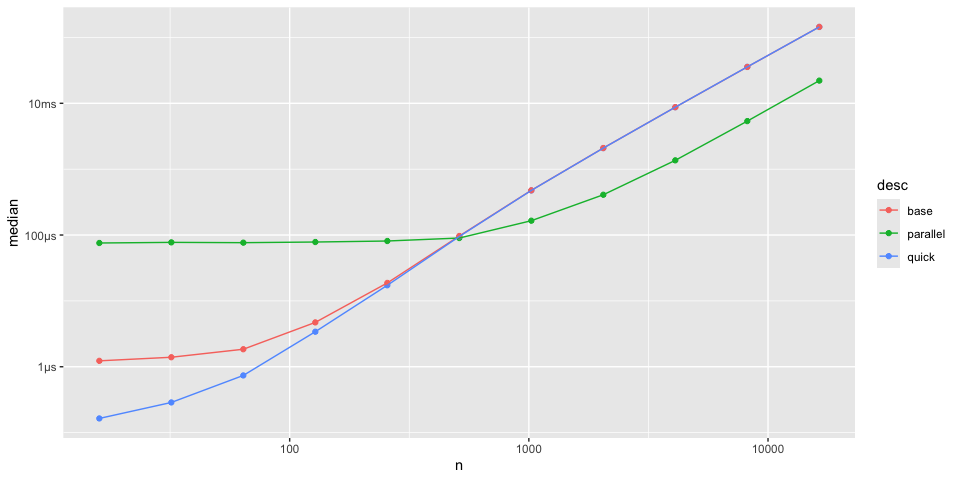
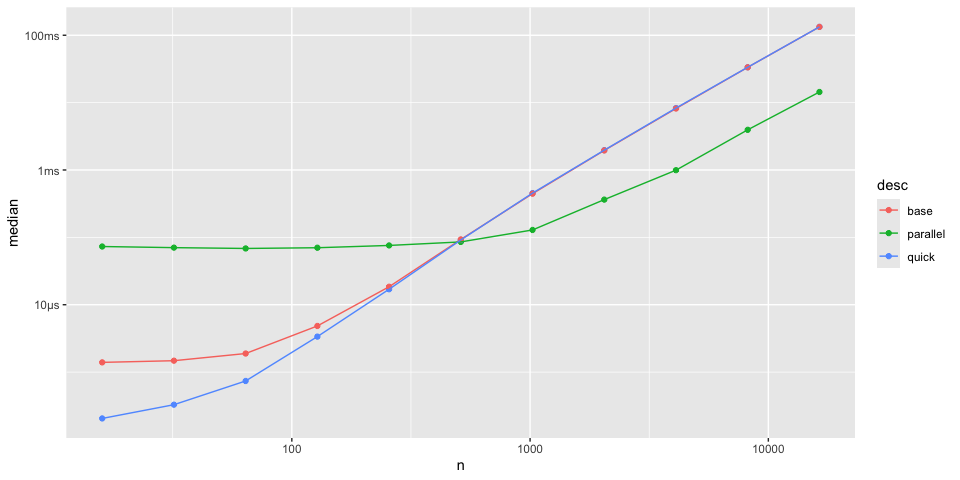
rerender readme

diff --git a/README.md b/README.md
@@ -140,9 +140,9 @@ timings
 #> # A tibble: 3 × 6
 #>   expression      min   median `itr/sec` mem_alloc `gc/sec`
 #>   <bch:expr> <bch:tm> <bch:tm>     <dbl> <bch:byt>    <dbl>
-#> 1 r          502.38ms 502.38ms      1.99     847KB     5.97
-#> 2 quickr       1.01ms   1.09ms    918.       782KB    15.3 
-#> 3 c            1.02ms    1.1ms    908.       782KB    15.8
+#> 1 r          484.96ms 484.96ms      2.06     782KB     8.25
+#> 2 quickr       1.01ms   1.07ms    929.       782KB    17.7 
+#> 3 c            1.01ms   1.09ms    912.       782KB    16.9
 plot(timings) + bench::scale_x_bench_time(base = NULL)
 ```
 
@@ -301,8 +301,8 @@ timings
 #> # A tibble: 2 × 6
 #>   expression         min   median `itr/sec` mem_alloc `gc/sec`
 #>   <bch:expr>    <bch:tm> <bch:tm>     <dbl> <bch:byt>    <dbl>
-#> 1 slow_viterbi   67.49µs  73.31µs    13362.     178KB     34.9
-#> 2 quick_viterbi   1.97µs   2.09µs   459831.        0B      0
+#> 1 slow_viterbi   68.35µs  73.23µs    12893.    1.59KB     29.6
+#> 2 quick_viterbi   1.93µs   2.05µs   476397.        0B      0
 plot(timings)
 ```
 
@@ -393,8 +393,8 @@ summary(timings, relative = TRUE)
 #> # A tibble: 2 × 6
 #>   expression           min median `itr/sec` mem_alloc `gc/sec`
 #>   <bch:expr>         <dbl>  <dbl>     <dbl>     <dbl>    <dbl>
-#> 1 diffuse_heat        4.80   2.55      1        4893.      Inf
-#> 2 quick_diffuse_heat  1      1         2.57        1       NaN
+#> 1 diffuse_heat        7.08   13.0       1       4893.      Inf
+#> 2 quick_diffuse_heat  1       1        11.6        1       NaN
 plot(timings)
 ```
 
@@ -440,9 +440,9 @@ timings
 #> # A tibble: 3 × 6
 #>   expression      min   median `itr/sec` mem_alloc `gc/sec`
 #>   <bch:expr> <bch:tm> <bch:tm>     <dbl> <bch:byt>    <dbl>
-#> 1 r           68.99ms  85.28ms      9.23  124.31MB    14.8 
-#> 2 rcpp         6.12ms   6.45ms    151.      4.46MB     1.99
-#> 3 quickr       2.41ms   2.54ms    390.    781.35KB     4.00
+#> 1 r           70.05ms  88.14ms      9.07  124.24MB    18.1 
+#> 2 rcpp         5.94ms   6.27ms    158.      4.46MB     0   
+#> 3 quickr       2.31ms   2.49ms    390.    781.35KB     3.98
 
 timings$expression <- factor(names(timings$expression), rev(names(timings$expression)))
 plot(timings) + bench::scale_x_bench_time(base = NULL)
@@ -556,10 +556,10 @@ timings
 #> # A tibble: 4 × 6
 #>   expression         min   median `itr/sec` mem_alloc `gc/sec`
 #>   <bch:expr>    <bch:tm> <bch:tm>     <dbl> <bch:byt>    <dbl>
-#> 1 reference      11.71ms  12.54ms      79.0    29.6MB   136.  
-#> 2 RcppArmadillo   1.87ms   2.08ms     471.         0B     0   
-#> 3 plain R          1.6ms   1.85ms     536.     13.3MB   184.  
-#> 4 quickr          1.01ms   1.09ms     882.         0B     2.01
+#> 1 reference      12.14ms  12.58ms      79.0    29.6MB     84.0
+#> 2 RcppArmadillo   1.78ms   2.03ms     473.         0B      0  
+#> 3 plain R         1.65ms   2.02ms     487.     13.2MB    114. 
+#> 4 quickr        940.05µs   1.11ms     836.         0B      0
 plot(timings) + ggplot2::scale_y_discrete(limits = rev(c( 
   "reference", "RcppArmadillo", "plain R", "quickr"
 )))
